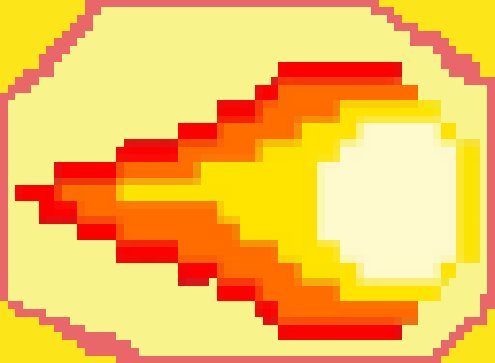
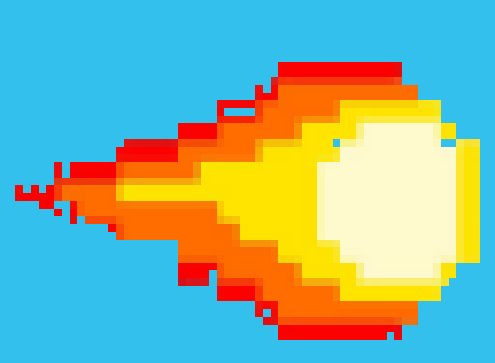
barra de habilidade

diff --git a/main.py b/main.py
@@ -6,21 +6,26 @@ from classes import Inimigos, Parede, Retangulo, Rio, Projectile, Lobo
 
 #Imagens
 hud = pg.transform.scale(pg.image.load('assets/hud.png'), (1800, 60)) #imagem da madeira do menu inferior
+hud_skill = pg.transform.smoothscale(pg.image.load('assets/projetil_skill_hud.png'), (64, 48))
+hud_skill_cooldown = pg.transform.scale(pg.image.load('assets/projetil_cooldown.png'), (64, 48))
 
 #animal1
-animal1_baixo = pg.transform.smoothscale(pg.image.load('assets/animal1_frente.png'), (50, 50))
-animal1_cima = pg.transform.smoothscale(pg.image.load('assets/animal1_costas.png'), (50, 50))
-animal1_direita = pg.transform.smoothscale(pg.image.load('assets/animal1_direita.png'), (50, 50))
-animal1_esquerda = pg.transform.flip(animal1_direita, True, False)
+animal1_baixo = [pg.transform.smoothscale(pg.image.load('assets/animal1_frente.png'), (50, 50))]
+animal1_cima = [pg.transform.smoothscale(pg.image.load('assets/animal1_costas.png'), (50, 50))]
+animal1_direita = [pg.transform.smoothscale(pg.image.load('assets/sapo_direita_sprite1.png'), (50, 50)), 
+                   pg.transform.smoothscale(pg.image.load('assets/sapo_direita_sprite2.png'), (50, 50)),
+                   pg.transform.smoothscale(pg.image.load('assets/sapo_direita_sprite3.png'), (50, 50)),
+                   pg.transform.smoothscale(pg.image.load('assets/sapo_direita_sprite4.png'), (50, 50))]
+animal1_esquerda = [pg.transform.flip(animal1_direita[0], True, False)]
 
 #animal2
-animal2_baixo = pg.transform.smoothscale(pg.image.load('assets/animal2_frente.png'), (50, 50))
-animal2_cima = pg.transform.smoothscale(pg.image.load('assets/animal2_costas.png'), (50, 50))
+animal2_baixo = [pg.transform.smoothscale(pg.image.load('assets/animal2_frente.png'), (50, 50))]
+animal2_cima = [pg.transform.smoothscale(pg.image.load('assets/animal2_costas.png'), (50, 50))]
 animal2_direita = animal2_baixo
 animal2_esquerda = animal2_cima
 
 #animal3
-animal3 = pg.transform.smoothscale(pg.image.load('assets/animal3.png'), (50, 50))
+animal3 = [pg.transform.smoothscale(pg.image.load('assets/animal3.png'), (50, 50))]
 animal3_direita = animal3
 animal3_esquerda = animal3
 animal3_cima = animal3
@@ -328,9 +333,13 @@ while running:
         if evento.type == pg.QUIT:
             running = False
 
+
     if ultima_seta['SPACE'] == 0:
         cooldown = False
-    
+        cooldown_sprite = False
+    else:
+        cooldown_sprite = True
+
     if not cooldown:
         #checando colisão com animais
         for animal in Inimigos.inimigos_vivos:
@@ -442,14 +451,16 @@ while running:
 
     #Moldura barra de vida
     largura_barra = 200
+    largura_barra_skill = 64
     altura_barra = 15
-    altura_barra_habilidade = 30
+    altura_barra_habilidade = 48
     raio_borda = 4
     espessura = 2
     x_barras = width / (LARGURA/10)
-    x_barra_habilidade = width / (LARGURA / 270)
     y_barra_stamina = height / (ALTURA/(ALTURA - 28))
     y_barra_vida = height / (ALTURA/(ALTURA - 44))
+    x_barra_habilidade = width / (LARGURA / 270)
+    y_barra_habilidade = y_barra_vida - 9
     
     #Fundo barra de stamina
     pg.draw.rect(janela, CINZA, (x_barras, y_barra_stamina, largura_barra, altura_barra), border_radius=raio_borda)
@@ -467,8 +478,15 @@ while running:
     pg.draw.rect(janela, MARROM_ESCURO, (x_barras, y_barra_stamina, largura_barra, altura_barra), espessura, border_radius=raio_borda)
 
     #Barra de habilidade
-    pg.draw.rect(janela, AZUL, (x_barra_habilidade, y_barra_vida, (largura_barra - 100), altura_barra_habilidade * ratio_habilidade), border_radius=raio_borda)
-    pg.draw.rect(janela, MARROM_ESCURO, (x_barra_habilidade, y_barra_vida, (largura_barra - 100), altura_barra_habilidade), espessura, border_radius=raio_borda)
+    if not cooldown_sprite:
+        janela.blit(hud_skill, (x_barra_habilidade, y_barra_habilidade))
+    else:
+        barra_branca = pg.transform.smoothscale(pg.image.load('assets/barra_branca.png'), (64 * ratio_habilidade, 48))
+        barra_branca.set_alpha(100)
+        janela.blit(hud_skill_cooldown, (x_barra_habilidade, y_barra_habilidade))
+        janela.blit(barra_branca, (x_barra_habilidade, y_barra_habilidade))
+    pg.draw.rect(janela, MARROM_ESCURO, (x_barra_habilidade, y_barra_habilidade, largura_barra_skill, altura_barra_habilidade), espessura, border_radius=raio_borda)
+    
 
     #movimentação dos inimigos
     for inimigo in Inimigos.inimigos_vivos:
@@ -499,9 +517,9 @@ while running:
     x_inicial = LARGURA - texto_timer.get_width() - 150
 
     #Blitando os sprites do animais no contador
-    janela.blit(animal1_baixo, (x_inicial - 200, ALTURA - 50))
-    janela.blit(animal2_baixo, (x_inicial - 100, ALTURA - 50))
-    janela.blit(animal3, (x_inicial, ALTURA - 50))
+    janela.blit(animal1_baixo[0], (x_inicial - 200, ALTURA - 50))
+    janela.blit(animal2_baixo[0], (x_inicial - 100, ALTURA - 50))
+    janela.blit(animal3[0], (x_inicial, ALTURA - 50))
 
     for animal in reversed(pontos_inimigos.keys()): #contador dos animais
         if pontos_inimigos[animal] < 10:

diff --git a/classes/inimigos.py b/classes/inimigos.py
@@ -56,7 +56,8 @@ class Inimigos(pg.sprite.Sprite):
                         escolher = False
 
     def desenhar_inimigo(self, janela):
-        janela.blit(self.img, (self.x, self.y))
+        for sprite in self.img:
+            janela.blit(sprite, (self.x, self.y))
         
     def morte(self):
         Inimigos.inimigos_vivos.remove(self)
